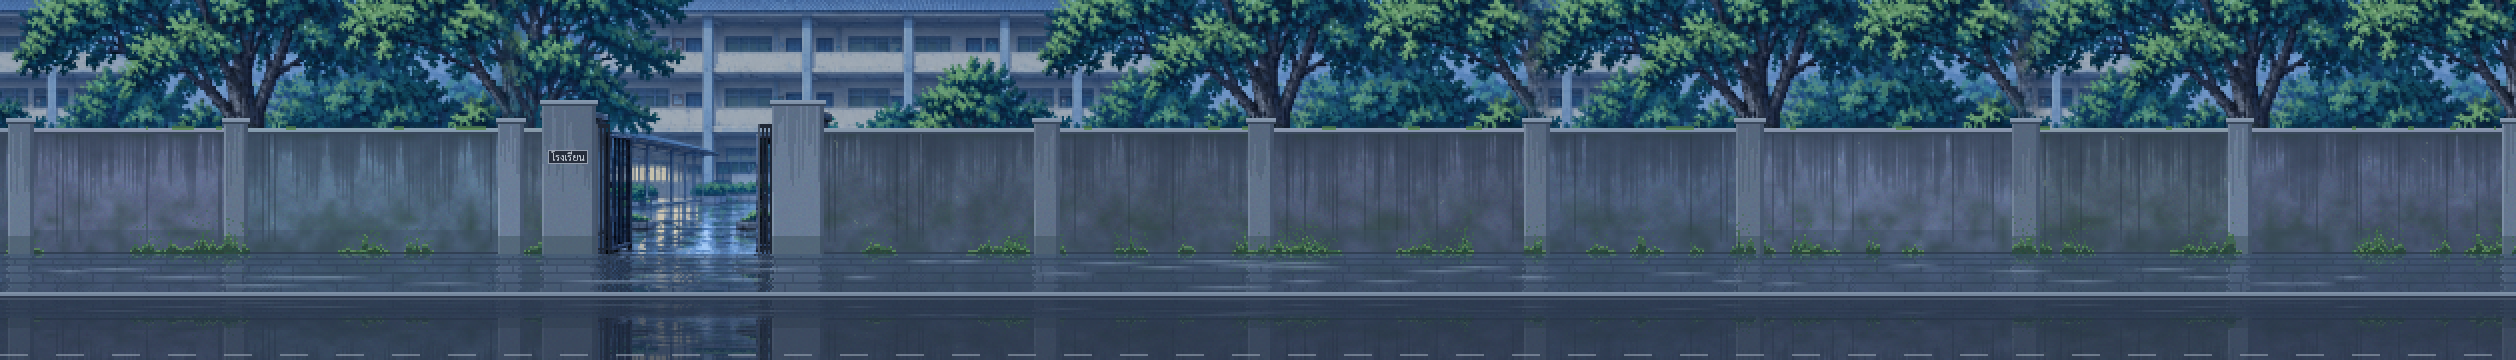
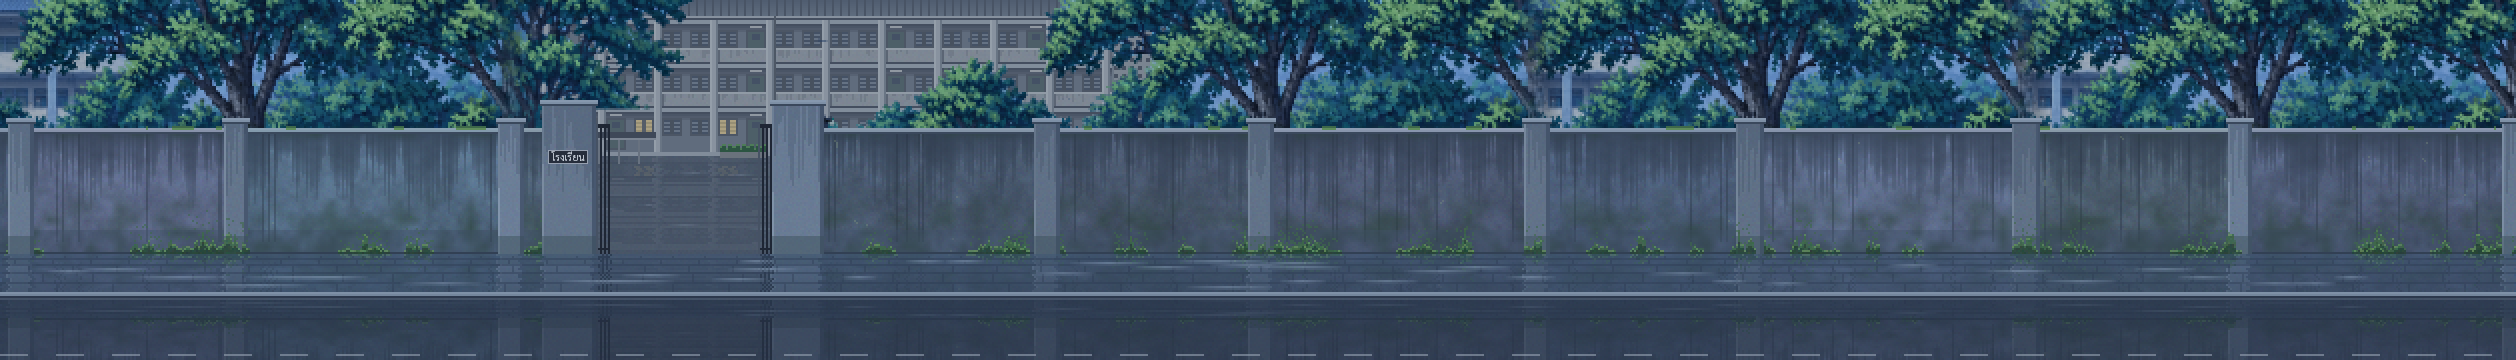
School walk: draw the school building and the courtyard through the gate
tools/draw_school_building.py keeps only the painting's trees (colour mask) and draws everything
else behind the wall: a three-storey block with open corridors (slab edges with deep shadow
under them, louvred windows and doors with room plates, stained parapets, columns casting a
sliver of shadow), a breeze-block stair tower, a metal roof and a drainpipe, misted by the rain;
through the gate a plinth, wet paving softly mirroring the building, a covered walkway and a
planter. Pipeline: compose_school.py -> draw_school_building.py -> draw_school_wall.py.

Claude-Session: https://claude.ai/code/session_01CetL5zkYvFPaRRM6Eyxn95

Changed region(s): [[0.217, 0.0, 0.465, 0.7944], [0.248, 0.8861, 0.31, 0.9472], [0.248, 0.9778, 0.31, 1.0]]

diff --git a/tools/draw_school_building.py b/tools/draw_school_building.py
@@ -1,0 +1,210 @@
+"""Draw the school building and the campus seen through the gate as pixel art, keeping the painting's trees.
+
+Runs on the composed strip (tools/compose_school.py), before tools/draw_school_wall.py:
+  - the painting's trees are kept: a tree mask from colour (greenish leaves, and dark saturated ones),
+    smoothed; everything else behind the wall in the building's stretch is replaced
+  - the building (half-size grid like the wall, 1 drawn pixel = 2x2 game pixels): a three-storey
+    Thai school block with open corridors: slab edges with deep shadow under them, the classrooms'
+    back wall with louvred windows and doors, corridor parapets with rain stains, columns in front,
+    a breeze-block stair tower at one end, a metal roof, a drainpipe; misted by the rain
+  - through the gate: the ground floor (a few windows lit warm), wet paving mirroring the building
+    softly, a covered walkway on the left and a planter with shrubs on the right
+
+Usage:
+  python3 tools/draw_school_building.py IN.png OUT.png
+"""
+import sys
+
+import numpy as np
+from PIL import Image, ImageFilter
+
+K = 2
+BUILDING = (540, 1172)                   # game x of the building (where the painting has building, mirrored)
+GATE = (593, 774)                        # gate opening (compose_school.py)
+WALL_TOP, WALL_BASE = 129, 255
+FLOOR = 22                               # drawn rows per storey
+FLOOR_TOP = 10                           # drawn row of the top storey's slab (roof above it)
+GROUND = FLOOR_TOP + 3 * FLOOR           # drawn row where the building meets the ground (game 152)
+COL_STEP, WIN_STEP = 28, 14
+
+SKY = np.array((128, 144, 164))
+ROOF = np.array((64, 76, 94))
+ROOF_LOW = np.array((82, 94, 112))
+ROOF_SEAM = np.array((54, 64, 80))
+FASCIA = np.array((138, 146, 156))
+SLAB = np.array((130, 140, 152))
+SHADOW = np.array((48, 56, 72))
+BACK = np.array((86, 96, 112))
+FRAME = np.array((58, 66, 80))
+GLASS = np.array((48, 60, 80))
+SLAT = np.array((92, 104, 122))
+WARM = np.array((188, 168, 118))
+DOOR = np.array((60, 78, 84))
+PLATE = np.array((150, 156, 160))
+PARAPET = np.array((124, 132, 142))
+PARAPET_TOP = np.array((150, 158, 166))
+STAIN = np.array((84, 92, 104))
+COLUMN = np.array((140, 148, 158))
+COLUMN_LIT = np.array((156, 164, 172))
+COLUMN_SHADE = np.array((98, 108, 122))
+BREEZE = np.array((120, 128, 138))
+BREEZE_HOLE = np.array((52, 60, 74))
+PIPE = np.array((60, 68, 80))
+PAVING = np.array((76, 90, 110))
+JOINT = np.array((58, 68, 86))
+CANOPY = np.array((62, 72, 88))
+CANOPY_EDGE = np.array((122, 132, 146))
+POST = np.array((104, 114, 128))
+PLANTER = np.array((106, 114, 124))
+SHRUB = np.array((44, 84, 66))
+SHRUB_LIT = np.array((78, 124, 88))
+
+
+def tree_mask(img):
+    hsv = np.asarray(img.convert("HSV")).astype(float)
+    h, s, v = hsv[..., 0] * 360 / 255, hsv[..., 1] / 255, hsv[..., 2] / 255
+    tree = ((h < 203) & (s > 0.25)) | ((v < 0.36) & (s > 0.45))
+    m = Image.fromarray((tree * 255).astype(np.uint8))
+    m = m.filter(ImageFilter.MedianFilter(5)).filter(ImageFilter.MaxFilter(3)).filter(ImageFilter.MinFilter(3))
+    return np.asarray(m) > 127
+
+
+def draw_building(w, h, rng):
+    """Building on the drawing grid (rows from the top of the strip), NaN where nothing is drawn.
+    A three-storey block with open corridors facing us (each storey: slab edge, deep shadow under it,
+    the classrooms' back wall with louvred windows and doors, the corridor parapet, columns in front),
+    a stair tower of breeze blocks at the right end, a metal roof, rain stains and a drainpipe."""
+    out = np.full((h, w, 3), np.nan)
+    x0, x1 = BUILDING[0] // K, BUILDING[1] // K
+    tower = x1 - 30
+    # roof: darker at the ridge, lighter toward the eave, seams; fascia and gutter shadow
+    for y in range(0, FLOOR_TOP - 2):
+        t = y / (FLOOR_TOP - 3)
+        for x in range(x0 - 3, tower + 3):
+            c = ROOF * (1 - t) + ROOF_LOW * t
+            out[y, x] = ROOF_SEAM if x % 4 == 0 else c
+    out[FLOOR_TOP - 2, x0 - 3:tower + 3] = FASCIA
+    out[FLOOR_TOP - 1, x0 - 3:tower + 3] = SHADOW
+    for f in range(3):
+        top = FLOOR_TOP + f * FLOOR
+        ground_floor = f == 2
+        for y in range(top, top + FLOOR):
+            out[y, x0:tower] = BACK
+        out[top:top + 2, x0:tower] = SLAB
+        for k, y in enumerate(range(top + 2, top + 6)):          # shadow under the slab, fading
+            out[y, x0:tower] = SHADOW * (1 - k * 0.22) + BACK * k * 0.22
+        # louvred windows, a door every few bays (with its room plate above)
+        for i, wx in enumerate(range(x0 + 6, tower - 12, WIN_STEP)):
+            if (wx - x0) % COL_STEP < 5:
+                continue                                          # behind a column
+            door = i % 5 == 2
+            y0, y1 = top + 6, (top + FLOOR - 2 if ground_floor else top + 15) if door else top + 13
+            out[y0 - 1:y1 + 1, wx - 1:wx + 9] = FRAME
+            if door:
+                out[y0:y1, wx:wx + 8] = DOOR
+                out[y0 + 1:y0 + 4, wx + 2:wx + 6] = GLASS
+                out[y0 - 3, wx + 1:wx + 7] = PLATE
+                continue
+            lit = ground_floor and rng.random() < 0.45
+            for yy in range(y0, y1):
+                c = (WARM * 0.85 if (yy - y0) % 2 else WARM) if lit else (SLAT if (yy - y0) % 2 else GLASS)
+                out[yy, wx:wx + 8] = c
+            out[y0:y1, wx + 3:wx + 5] = FRAME * 0.9 + (WARM * 0.1 if lit else 0)    # two leaves
+        if not ground_floor:                                      # corridor parapet with rain stains
+            out[top + 14, x0:tower] = PARAPET_TOP
+            for x in range(x0, tower):
+                stain = rng.integers(0, 5) if rng.random() < 0.35 else 0
+                for y in range(top + 15, top + 21):
+                    c = PARAPET + rng.normal(0, 2, 3)
+                    if y - (top + 15) < stain:
+                        c = c * 0.6 + STAIN * 0.4
+                    out[y, x] = c
+            out[top + 21, x0:tower] = SHADOW
+        # columns in front, with a sliver of shadow cast to the right
+        for cx in range(x0 + 1, tower - 2, COL_STEP):
+            out[top:top + FLOOR, cx] = COLUMN_LIT
+            out[top:top + FLOOR, cx + 1:cx + 3] = COLUMN
+            out[top:top + FLOOR, cx + 3] = COLUMN_SHADE
+            if not ground_floor:
+                out[top + 15:top + 21, cx + 4] = SHADOW * 0.6 + PARAPET * 0.4
+    # stair tower: breeze-block screen, a little forward and lighter, its own roof cap
+    for y in range(FLOOR_TOP - 6, GROUND):
+        for x in range(tower, x1):
+            hole = (y % 4 in (1, 2)) and (x % 4 in (1, 2))
+            out[y, x] = BREEZE_HOLE if hole and FLOOR_TOP - 3 < y < GROUND - 2 else BREEZE
+        out[y, tower] = COLUMN_SHADE
+    out[FLOOR_TOP - 7, tower - 1:x1 + 1] = FASCIA
+    out[FLOOR_TOP - 6, tower - 1:x1 + 1] = SHADOW
+    # drainpipe down one column
+    px = x0 + 1 + COL_STEP * 4 + 4
+    out[FLOOR_TOP - 2:GROUND, px] = PIPE
+    # rain mist: the building stands behind the trees and the wall
+    mask = ~np.isnan(out[..., 0])
+    out[mask] = out[mask] * 0.74 + SKY * 0.26
+    return out
+
+
+def draw_campus(out, w, h, rng):
+    """The courtyard through the gate: the building's plinth, wet paving coming toward the gate with a few
+    joints (further apart nearer the gate), softly mirroring the building; a covered walkway on the left
+    and a planter with shrubs on the right."""
+    gx0, gx1 = GATE[0] // K, GATE[1] // K + 1
+    bottom = WALL_BASE // K
+    out[GROUND:GROUND + 2, gx0:gx1] = SLAB * 0.8 + SKY * 0.2           # plinth
+    for y in range(GROUND + 2, bottom):
+        t = (y - GROUND) / (bottom - GROUND)
+        for x in range(gx0, gx1):
+            c = PAVING * (0.92 + 0.12 * t) + rng.normal(0, 1.5, 3)
+            ry = GROUND - 1 - int((y - GROUND) * 1.4)
+            rx = x + int(round(np.sin(y * 1.9 + x * 0.1) * 1.5))       # rippled by the rain
+            if ry >= 0 and 0 <= rx < w and not np.isnan(out[ry, rx, 0]):
+                c = c * 0.8 + out[ry, rx] * 0.2 * (1 - 0.5 * t)
+            out[y, x] = c
+    for k in range(1, 5):
+        y = GROUND + 2 + int((bottom - GROUND - 2) * (k / 5) ** 1.7)
+        out[y, gx0:gx1] = out[y, gx0:gx1] * 0.7 + JOINT * 0.3
+    for _ in range(6):                                                 # puddles catching the sky
+        cy = rng.integers(GROUND + 6, bottom - 2)
+        cx = rng.integers(gx0 + 6, gx1 - 6)
+        rw = rng.integers(4, 10)
+        for x in range(max(cx - rw, gx0), min(cx + rw, gx1)):
+            f = 1 - abs(x - cx) / rw
+            out[cy, x] = out[cy, x] * (1 - 0.3 * f) + SKY * 0.3 * f
+    # covered walkway along the left: canopy with a light edge, thin posts
+    cy = GROUND - 10
+    out[cy:cy + 3, gx0:gx0 + 32] = CANOPY
+    out[cy + 3, gx0:gx0 + 32] = CANOPY_EDGE
+    for px in range(gx0 + 3, gx0 + 32, 10):
+        out[cy + 4:GROUND + 6, px] = POST
+    # planter with shrubs on the right, against the building
+    out[GROUND:GROUND + 3, gx1 - 28:gx1 - 4] = PLANTER
+    for x in range(gx1 - 28, gx1 - 4):
+        hgt = 2 + int(abs(np.sin(x * 0.9)) * 3)
+        for y in range(GROUND - hgt, GROUND):
+            out[y, x] = SHRUB_LIT if y == GROUND - hgt else SHRUB
+
+
+def main():
+    rng = np.random.default_rng(11)
+    img = Image.open(sys.argv[1]).convert("RGB")
+    src = np.asarray(img).astype(float)
+    H, W = src.shape[:2]
+    w, h = W // K, H // K
+    drawn = draw_building(w, h, rng)
+    draw_campus(drawn, w, h, rng)
+    big = np.repeat(np.repeat(drawn, K, 0), K, 1)
+    trees = tree_mask(img)
+    out = src.copy()
+    have = ~np.isnan(big[..., 0])
+    rows = np.arange(H)[:, None]
+    cols = np.arange(W)[None, :]
+    in_building = (cols >= BUILDING[0] - 4) & (cols < BUILDING[1] + 4) & (rows < WALL_TOP)
+    in_gate = (cols >= GATE[0]) & (cols < GATE[1]) & (rows >= WALL_TOP - 20) & (rows < WALL_BASE)
+    paint = have & ((in_building & ~trees) | in_gate)
+    out[paint] = big[paint]
+    Image.fromarray(np.clip(out, 0, 255).astype(np.uint8)).save(sys.argv[2])
+    print(f"{W}x{H} -> {sys.argv[2]}")
+
+
+if __name__ == "__main__":
+    main()

diff --git a/README.md b/README.md
@@ -66,9 +66,11 @@
    - ฉากหลัง `tools/compose_school.py art_source/school_front_rain.png assets/bg/school/school_front.png` (ภาพจากผู้เขียน):
      กลับซ้ายขวาให้ประตูอยู่ทางซ้าย ต่อกำแพง 2 ช่วงเสา (รอยต่อกลางเสา ต้นไม้เฟดผสม) ป้าย "โรงเรียน" พลิกกลับให้อ่านได้
      ย่อ 0.5525 ให้กำแพงสูงราวตัวซัน ตัดแถวบน 30 ให้ทางเท้าอยู่ใต้เท้า ประตูที่ x 593-774 ชั้นฉากถนนซ่อนทั้งหมด
+     แล้ว `tools/draw_school_building.py` วาดอาคารเรียน 3 ชั้นใหม่ (ระเบียง เงาใต้พื้น หน้าต่างบานเกล็ด ประตู เสา หอบันไดบล็อกช่องลม หลังคา
+     ม่านฝน) และลานในประตู (ทางเดินมีหลังคา กระถางต้นไม้ พื้นเปียก) เก็บจากภาพไว้แค่ต้นไม้ (แยกด้วยสี)
      แล้ว `tools/draw_school_wall.py assets/bg/school/school_front.png assets/bg/school/school_front.png` วาดกำแพง (สีต่างกันทีละช่วงเสา คราบน้ำ ตะไคร่ดำเขียว จุดไลเคน กอตะไคร่ที่โคน) เสา
      ประตู (ป้าย "โรงเรียน" ฟอนต์ Sarabun) ทางเท้าเปียกที่สะท้อนกำแพง ขอบฟุตบาท และถนนใหม่เป็นพิกเซล 2x2 ทับ
-     (จากภาพเก็บไว้แค่ต้นไม้ อาคาร และในประตู)
+
    - ทดสอบ: เปิดเกมด้วย `#school` ท้ายลิงก์ เริ่มที่ช่วงนี้เลย (`#cross` เริ่มที่ข้ามทางม้าลายแล้วต่อมาที่นี่)
 
 ลำดับฉากอยู่ใน `scripts/prologue.gd` แต่ละช่วงบท (`home`, `street`, `arrive`, `meet`, `end`) อยู่ใน `data/prologue.json`
